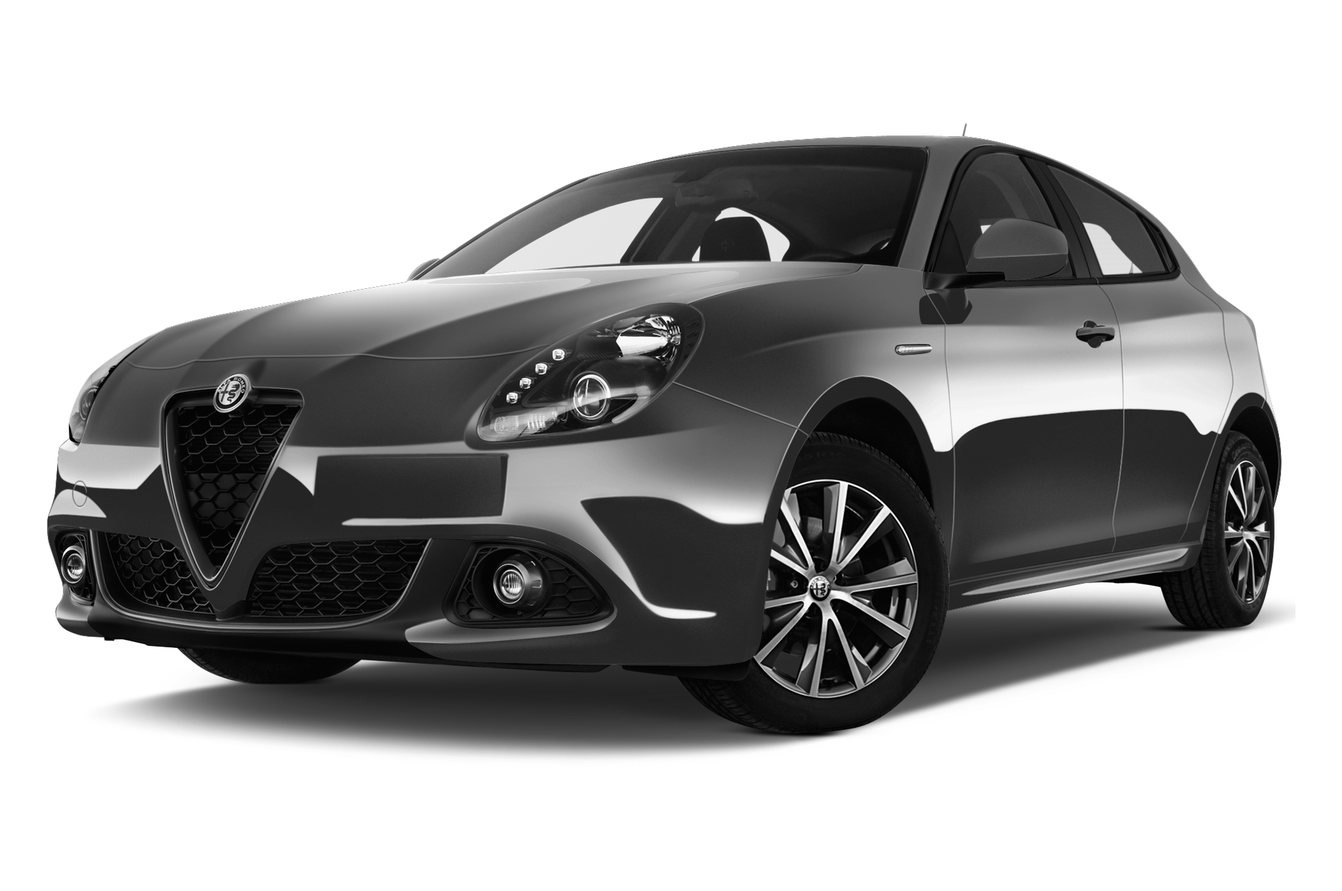
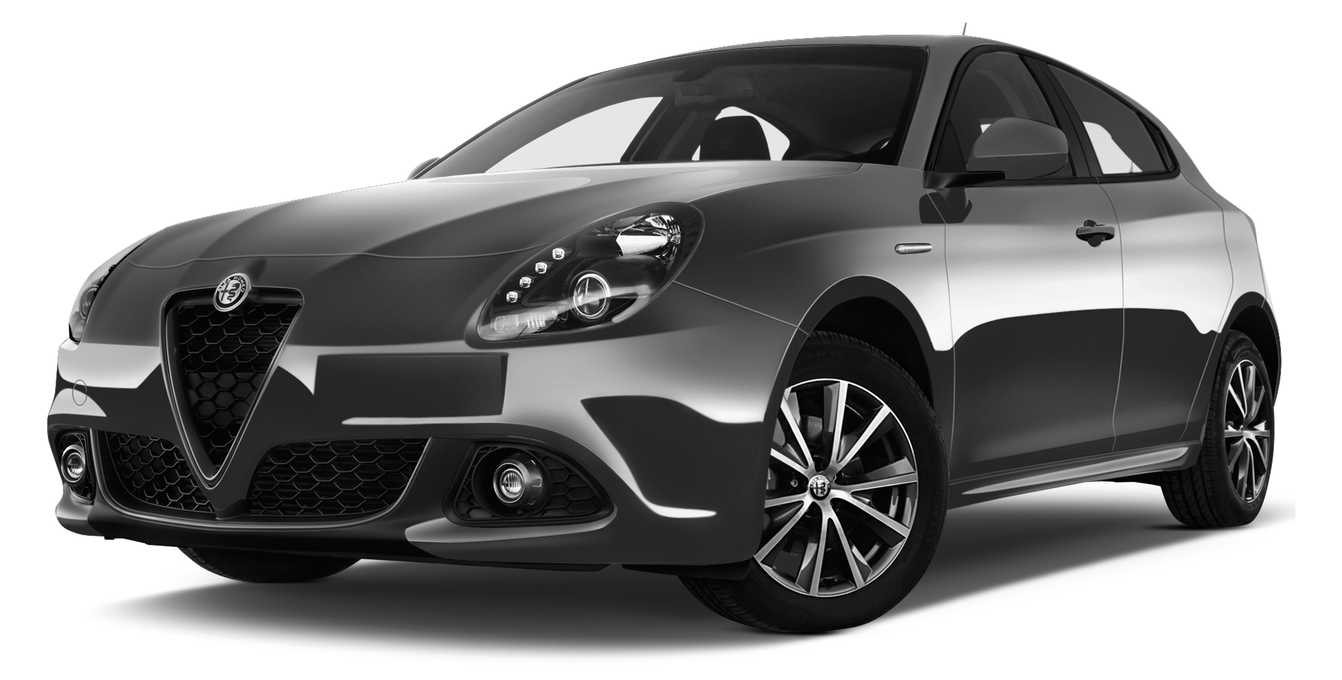
new illus

diff --git a/actes/acte_02.tex b/actes/acte_02.tex
@@ -414,9 +414,7 @@ Sauf que, comme tous les enfoirés de son espèce, drapés ou non des oripeaux d
 Ce même jour, en fin d’après-midi, on avait fait une descente dans la cité des Alisiers pour remuer un peu la merde. On s’était fait repérer dès notre arrivée, méchamment caillasser, et on avait préféré battre en retraite plutôt que de risquer le mauvais coup. En désespoir de cause, on s’était rabattu sur un pédophile dont le dossier traînait au-dessus de la pile depuis quelques semaines. On avait gentiment sonné à sa porte, comme des gens civilisés, et ce gros tas de merde était venu ouvrir en slip et débardeur crasseux, des morceaux de chips plein la barbe. Il était en train de s’empiffrer devant la télé. On lui a dit qu’on savait des choses sur lui, il a dit qu’il ne voyait pas de quoi on voulait parler, qu’il avait effectivement eu quelques petits problèmes par le passé, mais que ça lui avait servi de leçon et qu’il avait définitivement mis un terme à sa carrière d’exhibitionniste à la sortie des écoles. L’ennui, c’était qu’on avait des informations qui semblaient prouver le contraire. Son ordi était sous surveillance depuis un bout de temps, et ses connexions à répétition sur des sites pédocriminels les plus dégueulasses du web ne plaidaient pas en sa faveur. Titus Beaugendre, mon homme de confiance, compagnon d’infortune, toujours partant pour la grande aventure, carrossé comme un ours et monté comme un taureau (on aurait dit qu’il pissait avec un tuyau d’arrosage), s’était fait tripoter dans les vestiaires de son club de foot quand il avait entre huit et dix ans. Il avait arrêté le foot mais l’expérience lui avait laissé un très mauvais souvenir, de sorte que la vision d’un pédophile, même de très loin, de dos et dans le brouillard, lui causait des migraines insupportables. Quand l’autre a commencé à faire le malin, il n’a pu s’empêcher de lui coller quelques crochets dans le gras du bide pour lui faire fermer sa gueule. Le représentant de l’ordre passe la majeure partie de son temps sous tension, il faut bien qu’il décompresse quand l’occasion se présente. On a saisi le matos et embarqué le pédophile, histoire de le cuisiner un peu à tête reposée.
 
 \illusloflabel{}%
-Le soir même, après une journée de boulot bien remplie comme vous avez pu le constater, je rentrais tranquillement chez moi, avec la satisfaction du devoir accompli, quand je me suis rendu compte que quelque chose clochait dans le périmètre. Dans le rétro de ma Kangoo, \iconographiewrapfig{l}{0.5\textwidth}{\bwimage[width=\linewidth]{acte_02/scene_3/_0010_alfa-romeo-giulietta.png}}{Alfa Romeo Giulietta}plus exactement. Sauf à être devenu complètement parano, ce qui n’était pas impossible vu les cadences infernales auxquelles nous étions soumis, une voiture me suivait. Une Alfa Romeo Giulietta\nf{Berline compacte produite par Alfa Romeo de 2010 à 2020, héritière du nom de la \textit{Giulietta} des années 1950. Connue pour son comportement sportif, elle fut aussi disponible en version Quadrifoglio Verde.\source{fr.wikipedia.org/wiki/Alfa\_Romeo\_Giulietta\_(2010)}} noire aux vitres teintées, le genre de caisse pilotée neuf fois sur dix par une tête à claques qui se prend pour Fangio\nf{Juan Manuel Fangio (1911--1995), pilote automobile argentin, quintuple champion du monde de Formule~1 (1951, 1954--1957). Son record ne fut battu qu’en 2003. Il est considéré comme l’un des plus grands pilotes de l’histoire de la compétition automobile.\source{fr.wikipedia.org/wiki/Juan\_Manuel\_Fangio}} et finit encastré dans le premier platane qui passe à sa portée. Nous, les vrais flics de terrain, disposons d’un sixième sens qui nous permet de savoir instantanément si quelqu’un nous suit ou pas. Cela dit, conscience professionnelle oblige, j’ai fait trois fois le tour du quartier pour m’en assurer. Il me suivait, ou alors quelqu’un le suivait lui aussi et il habitait le même quartier que moi. Mais la plupart des flics, vous le savez comme moi, ont toutes les peines du monde à croire aux coïncidences. Je ne faisais pas exception à la règle.
-
-Je me suis garé près de chez moi, suis descendu tranquillement de ma voiture, comme si de rien n’était, et me suis dirigé vers l’entrée. Comme je m’y attendais, l’Alfa m’a dépassé au ralenti pour aller se garer à quelques mètres de là.
+Le soir même, après une journée de boulot bien remplie comme vous avez pu le constater, je rentrais tranquillement chez moi, avec la satisfaction du devoir accompli, quand je me suis rendu compte que quelque chose clochait dans le périmètre. Dans le rétro de ma Kangoo, \iconographiewrapfig{l}{0.58\textwidth}{\bwimage[width=\linewidth]{acte_02/scene_3/_0010_alfa-romeo-giulietta.png}}{Alfa Romeo Giulietta}plus exactement. Sauf à être devenu complètement parano, ce qui n’était pas impossible vu les cadences infernales auxquelles nous étions soumis, une voiture me suivait. Une Alfa Romeo Giulietta\nf{Berline compacte produite par Alfa Romeo de 2010 à 2020, héritière du nom de la \textit{Giulietta} des années 1950. Connue pour son comportement sportif, elle fut aussi disponible en version Quadrifoglio Verde.\source{fr.wikipedia.org/wiki/Alfa\_Romeo\_Giulietta\_(2010)}} noire aux vitres teintées, le genre de caisse pilotée neuf fois sur dix par une tête à claques qui se prend pour Fangio\nf{Juan Manuel Fangio (1911--1995), pilote automobile argentin, quintuple champion du monde de Formule~1 (1951, 1954--1957). Son record ne fut battu qu’en 2003. Il est considéré comme l’un des plus grands pilotes de l’histoire de la compétition automobile.\source{fr.wikipedia.org/wiki/Juan\_Manuel\_Fangio}} et finit encastré dans le premier platane qui passe à sa portée. Nous, les vrais flics de terrain, disposons d’un sixième sens qui nous permet de savoir instantanément si quelqu’un nous suit ou pas. Cela dit, conscience professionnelle oblige, j’ai fait trois fois le tour du quartier pour m’en assurer. Il me suivait, ou alors quelqu’un le suivait lui aussi et il habitait le même quartier que moi. Mais la plupart des flics, vous le savez comme moi, ont toutes les peines du monde à croire aux coïncidences. Je ne faisais pas exception à la règle. Je me suis garé près de chez moi, suis descendu tranquillement de ma voiture, comme si de rien n’était, et me suis dirigé vers l’entrée. Comme je m’y attendais, l’Alfa m’a dépassé au ralenti pour aller se garer à quelques mètres de là.
 
 Je résidais au sixième étage d’un immeuble qui, s’il ne datait pas exactement d’hier, n’en présentait pas moins toutes les garanties nécessaires en termes de confort et d’habitabilité. Il y avait l’eau courante, le gaz, l’électricité et du double vitrage aux fenêtres. Il y avait même un ascenseur dans lequel on pouvait loger deux ou trois personnes (pas trop grosses) sans risquer la chute libre. Comme il tombait régulièrement en rade, produisant des bruits atroces qui donnaient tout sauf envie de monter dedans, je pouvais garder la forme en effectuant des allers et retours dans les escaliers. Ce n’était pas le cas de ma voisine d’en face, une vieille bique sèche comme un coup de trique avec des yeux de fouine, une langue de pute et des touffes de cheveux irrégulièrement plantées sur le crâne, qui se retrouvait en grande difficulté à chaque fois que ce foutu ascenseur déclarait forfait. Ses enfants venaient la voir une fois tous les trente-six du mois et ses petits enfants ne rappliquaient que pour lui taxer du fric (qu’elle ne manquait pas de leur donner, sachant pertinemment qu’ils ne viendraient plus sans ça). Une fois, je l’avais croisée à mi-chemin dans l’escalier, à l’agonie avec sa baguette sous le bras et ses poireaux qui dépassaient du cabas. Au lieu de l’achever, ce qui aurait été un acte de charité chrétienne de haute valeur morale, j’avais commis l’erreur de lui proposer mon aide. Depuis, elle surveillait mes allées et venues et me mettait à contribution dès qu’elle arrivait à me mettre le grappin dessus. Quand je n’étais pas de corvée de courses, ou autre, elle m’attrapait par la manche et me tirait chez elle pour avaler un verre de porto. Le porto, c’est sucré, pas trop alcoolisé, les vieux adorent ça. Elle avait aussi trois chats à peu près aussi vieux qu’elle qui chiaient et pissaient partout. L’un d’eux, un rouquin vaguement tigré avec des oreilles bouffées aux mites, s’échappait dès qu’il pouvait pour venir chier sur le paillasson devant ma porte. D’ailleurs, en règle générale, il s’échappait dès qu’il pouvait pour faire régner la terreur dans le quartier. Cette sale bête s’appelait Korax. Un nom de dragon, de créature maléfique, je me demandais bien où la vieille était allée chercher ça. Je m’en plaignais régulièrement à l’intéressée qui m’offrait un verre de porto pour se faire pardonner, une piquette proche du vinaigre qui me filait des aigreurs d’estomac pour le restant de la journée. Je pense qu’on aurait pu décimer une ville entière avec son porto. Peut-être qu’elle le fabriquait elle-même avec du sang de cochon et de l’acide sulfurique, mais il était impossible d’imaginer qu’elle telle horreur soit en vente libre dans le pays des droits de l’homme, l’art de vivre et la gastronomie. Je commençais à me demander si la vieille, sous ses allures de grand-mère inoffensive, n’était pas en fait une redoutable sorcière ayant survécu aux bûchers de l’Inquisition. Korax me détestait. Il y avait des tas d’endroits où il aurait pu chier et pisser sans faire chier le monde, mais il tenait absolument à le faire devant ma porte. Je voyais qu’il me détestait quand il me regardait fixement avec ses grands yeux verts, avec un air de défi, en remuant nerveusement la queue et poussant des grognements rauques comme s’il allait se jeter sur moi. Il avait au moins trois siècles et je me disais qu’il allait bien finir par crever. Mais non, son aversion pour moi le maintenait solidement accroché à la vie, lui donnait la force de continuer à se battre pour me pourrir la mienne. Quels que soient ses sentiments à mon égard, je dois admettre que Korax n’était pas un chat comme les autres. Par exemple, croyez-le ou non, il avait appris à prendre l’ascenseur. Il savait sauter sur le bouton pour l’appeler, et une fois à l’intérieur, sauter à nouveau sur le bouton pour le faire aller et venir. Il lui arrivait aussi, de plus en plus souvent (il commençait à se faire vieux), de se faufiler entre les jambes des gens pour profiter du voyage. Quand je dis les jambes des gens, je pense aux miennes en particulier, entre lesquelles il adorait se faufiler, pas tellement parce que mes jambes sont des jambes entre lesquelles il est plus agréable de se faufiler que d’autres, mais parce qu’il savait que la manœuvre m’exaspérait et que sa présence m’horripilait. À tel point que des fois, quand je le voyais roder dans les parages, prêt à se jeter dans mes pattes pour profiter de l’ascenseur en faisant semblant de ronronner, je préférais me farcir les six étages à pinces. Mais au lieu de lâcher l’affaire, il se les farcissait lui aussi, en se frottant dans mes jambes pour essayer de me faire tomber. \label{rat:9}Contrairement au chien, animal grégaire au tempérament servile, le chat n’aime pas les gens, qu’il tient pour responsables d’avoir fait de lui une carpette à sa mémère, tout juste bon à faire ses pattes sur un coussin en ronronnant bêtement. Dans animal domestique, il y a animal et domestique. Le chien est plus domestique qu’animal, tendance larbin dévoué corps et âme à son maître, alors que le chat est un animal qui non seulement déteste les gens, mais se déteste lui-même pour s’être laissé avilir par une espèce qu’il estime, sans doute à juste titre, très inférieure à la sienne. Jamais il ne nous pardonnera ce que nous avons fait de lui, et jamais il ne se pardonnera de nous avoir laissé faire. Reste que dans son esprit, c’est lui qui a domestiqué l’homme et pas le contraire. À ce titre, il a tous les droits et droit à toutes les déférences. Caractériel et sournois de nature, veule et manipulateur, autoritaire, il faut être d’une naïveté sans bornes pour lui accorder la moindre confiance. C’est d’ailleurs, n’en doutons pas, la principale raison de la fascination qu’il exerce sur les gens, plus ou moins conscients d’avoir entre les mains une grenade dégoupillée qui peut leur péter à la gueule à tout instant. Quand un chat vous regarde de travers en plissant les yeux, cela signifie grosso modo : quel dommage que je ne fasse pas trente ou quarante kilos de plus, car j’aurais le plus grand plaisir à t’arracher la tête et te pisser dans le cou.
 
@@ -464,7 +462,7 @@ Une fois en bas, j’ai dit à Dardariel : Passe devant, je te suis. Et rappelle
 Korax est resté dans l’ascenseur, puis il a sauté sur le 6 pour remonter gratter à la porte de la mère Ouvrard, laquelle devait être en train de somnoler comme une grosse merde en robe de chambre et pantoufles devant Qui veut gagner des morpions ou Les fions de l’amour.
 
 \illusloflabel{}%
-Le cerveau de Dardariel tournait à plein régime pour imaginer une issue favorable à la situation. Après tout il n’avait rien fait de mal, à part se retrouver dans l’ascenseur d’un immeuble qui se trouvait, par le plus grand des hasards, être celui dans lequel résidait Djeferson Beauvais, inspecteur spécialisé dans la traque des criminels les plus endurcis, tueurs en série, violeurs d’enfants et autres saloperies du même genre. Certes il était, au moment des faits, porteur d’un Glock 17 et se trouvait précisément en train de l’équiper d’un silencieux quand Beauvais lui était tombé dessus, mais il était détenteur d’un permis de port d’arme, et, à sa connaissance, aucune loi n’interdisait spécifiquement de visser un silencieux à un pistolet dans un ascenseur, même s’il reconnaissait volontiers l’existence d’endroits sans doute mieux adaptés à ce type d’activité. Il était, d’autre part, titulaire d’une licence séminariale (il était l’auteur d’une thèse sur les mouvements \iconographieinlineblock[b]{\bwimage[width=0.95\textwidth]{acte_02/scene_3/_0060_renouveau-charismatique.jpg}}{Renouveau charismatique}%
+Le cerveau de Dardariel tournait à plein régime pour imaginer une issue favorable à la situation. Après tout il n’avait rien fait de mal, à part se retrouver dans l’ascenseur d’un immeuble qui se trouvait, par le plus grand des hasards, être celui dans lequel résidait Djeferson Beauvais, inspecteur spécialisé dans la traque des criminels les plus endurcis, tueurs en série, violeurs d’enfants et autres saloperies du même genre. Certes il était, au moment des faits, porteur d’un Glock 17 et se trouvait précisément en train de l’équiper d’un silencieux quand Beauvais lui était tombé dessus, mais il était détenteur d’un permis de port d’arme, et, à sa connaissance, aucune loi n’interdisait spécifiquement de visser un silencieux à un pistolet dans un ascenseur, même s’il reconnaissait volontiers l’existence d’endroits sans doute mieux adaptés à ce type d’activité. Il était, d’autre part, titulaire d’une licence séminariale (il était l’auteur d’une thèse sur les mouvements \iconographieinlineblock[b]{\bwimage[width=\textwidth]{acte_02/scene_3/_0060_renouveau-charismatique.jpg}}{Renouveau charismatique}%
 pentecôtistes américains\nf{Le pentecôtisme, né aux États-Unis au début du XX\up{e}~siècle, est un courant du protestantisme évangélique qui met l’accent sur l’expérience directe du Saint-Esprit, la glossolalie (parler en langues) et la guérison divine. Il compte aujourd’hui plusieurs centaines de millions de fidèles dans le monde.\source{fr.wikipedia.org/wiki/Pentecôtisme}} et les dérives sectaires du Renouveau charismatique\nf{Le Renouveau charismatique, apparu dans les années 1960 au sein des Églises catholique et protestantes, est un mouvement spirituel insistant sur les dons de l’Esprit Saint (guérison, prophétie, glossolalie). Ses formes les plus radicales ont parfois donné lieu à des dérives sectaires.\source{fr.wikipedia.org/wiki/Renouveau\_charismatique}}), inspiré par et d’un diplôme de prêtre garantissant la parfaite moralité de sa personne. Ajoutez à cela qu’il ne travaillait rien moins que pour le compte de monseigneur Mathéo Riqueti, évêque du Sanctuaire de Ddarr (lieu saint de l’Église catholique et romaine) et ami personnel du \foreignlanguage{italian}{cardinale di tutti li cardinali} Prospero Cangelosi, chef de chœur au Vatican et bras droit de Sa Sainteté le Pape, et vous conviendrez qu’il est difficile, sinon inconvenant, de suspecter un tel homme de quelque mauvaise intention que ce soit, funeste à plus forte raison. Il exigerait la relaxe immédiate et les excuses publiques du sieur Djeferson Beauvais, voire sa radiation définitive des services d’élite de la police nationale. Sa rétrogradation au niveau de simple agent de la circulation, condamné à faire le pied-de-grue à la sortie des écoles, ne serait pas pour lui déplaire.
 
 \begin{dialogue}
@@ -579,16 +577,19 @@ Eh bien, même si je n’étais pas censé répondre à cette question, le fait 
 Et alors ?
 
 \illusloflabel{\textit{Super Mario Bros.}}%
-Alors rien. Simplement, certaines affaires se traitent dans la pénombre plutôt que la lumière aveuglante des projecteurs. Il se trouvait que Titus et moi-même, sans être des agents secrets à part entière, devions parfois remplir des missions officiellement inexistantes en dehors de nos heures de travail. Rien, pas même le Chianti ou les somptueux spaghetti bolognaise \iconographiewrapfig{l}{0.425\textwidth}{\bwimage[width=\linewidth]{acte_02/scene_3/_0280_super-mario-bros.jpg}}{Super Mario Bros. \\[-5pt] \textup{1993}}dont elle venait de nous régaler, ne serait de nature à nous délier la langue. Même sous la torture, par exemple si on nous avait agrafé les paupières et obligés à regarder en boucle \textit{Super Mario Bros.}\nf{\textit{Super Mario Bros.} (1993), film de science-fiction réalisé par Rocky Morton et Annabel Jankel, adaptation du jeu vidéo de Nintendo. Avec Bob Hoskins et Dennis Hopper, il fut un échec commercial et critique retentissant, régulièrement cité parmi les pires adaptations de jeux vidéo. \source{fr.wikipedia.org/wiki/Super\_Mario\_Bros.\_(film)}} de Rocky Morton et Annabel Jankel, jamais, je dis bien jamais, même si après vingt-quatre heures non-stop de \textit{Super Mario Bros.} il avait fallu s’enquiller tous les pires films d’exploitation du cinéma pré-code hollywoodien\nf{Films américains produits entre l’avènement du parlant (\textit{circa} 1929) et l’application stricte du Code Hays en 1934, caractérisés par leur liberté de ton en matière de sexualité, de violence et de cynisme moral, qui disparut ensuite pendant trente ans.\source{fr.wikipedia.org/wiki/Cinéma\_pré-Code}}, comme par exemple l’histoire tragique de cette secrétaire devenue pute dans \textit{Safe in Hell}\nf{\textit{Safe in Hell} (1931), film pré-code de William Wellman~; il suit une jeune prostituée réfugiée sur une île des Caraïbes après avoir cru tuer son souteneur. Film sombre et sans concessions, apprécié par les amateurs du cinéma américain d’avant la censure Hays. \source{fr.wikipedia.org/wiki/La\_Fille\_de\_l'enfer}} de William Wellman\nf{William Augustus Wellman (1896--1975), réalisateur américain surnommé «~Wild Bill~», auteur de plus de quatre-vingts films~; on lui doit notamment \textit{Les Ailes} (1927, premier film à recevoir l’Oscar du meilleur film) et \textit{A Star Is Born} (1937). \source{fr.wikipedia.org/wiki/William\_A.\_Wellman}}, jamais nous n’aurions livré la moindre information concernant une affaire en cours.
+Alors rien. Simplement, certaines affaires se traitent dans la pénombre plutôt que la lumière aveuglante des projecteurs. Il se trouvait que Titus et moi-même, sans être des agents secrets à part entière, devions parfois remplir des missions officiellement inexistantes en dehors de nos heures de \iconographiewrapfig{l}{0.425\textwidth}{\bwimage[width=\linewidth]{acte_02/scene_3/_0280_super-mario-bros.jpg}}{Super Mario Bros. \\[-5pt] \textup{1993}}travail. Rien, pas même le Chianti ou les somptueux spaghetti bolognaise dont elle venait de nous régaler, ne serait de nature à nous délier la langue. Même sous la torture, par exemple si on nous avait agrafé les paupières et obligés à regarder en boucle \textit{Super Mario Bros.}\nf{\textit{Super Mario Bros.} (1993), film de science-fiction réalisé par Rocky Morton et Annabel Jankel, adaptation du jeu vidéo de Nintendo. Avec Bob Hoskins et Dennis Hopper, il fut un échec commercial et critique retentissant, régulièrement cité parmi les pires adaptations de jeux vidéo. \source{fr.wikipedia.org/wiki/Super\_Mario\_Bros.\_(film)}} de Rocky Morton et Annabel Jankel, jamais, je dis bien jamais, même si après vingt-quatre heures non-stop de \textit{Super Mario Bros.} il avait fallu s’enquiller tous les pires films d’exploitation du cinéma pré-code hollywoodien\nf{Films américains produits entre l’avènement du parlant (\textit{circa} 1929) et l’application stricte du Code Hays en 1934, caractérisés par leur liberté de ton en matière de sexualité, de violence et de cynisme moral, qui disparut ensuite pendant trente ans.\source{fr.wikipedia.org/wiki/Cinéma\_pré-Code}}, comme par exemple l’histoire tragique de cette secrétaire devenue pute dans \textit{Safe in Hell}\nf{\textit{Safe in Hell} (1931), film pré-code de William Wellman~; il suit une jeune prostituée réfugiée sur une île des Caraïbes après avoir cru tuer son souteneur. Film sombre et sans concessions, apprécié par les amateurs du cinéma américain d’avant la censure Hays. \source{fr.wikipedia.org/wiki/La\_Fille\_de\_l'enfer}} de William Wellman\nf{William Augustus Wellman (1896--1975), réalisateur américain surnommé «~Wild Bill~», auteur de plus de quatre-vingts films~; on lui doit notamment \textit{Les Ailes} (1927, premier film à recevoir l’Oscar du meilleur film) et \textit{A Star Is Born} (1937). \source{fr.wikipedia.org/wiki/William\_A.\_Wellman}}, jamais nous n’aurions livré la moindre information concernant une affaire en cours.
 
+\illusloflabel{}%
+\iconographieinlineblock[b]{\bwimage[width=\textwidth]{acte_02/scene_3/_0300_safe-in-hell.jpg}}{Dorothy Mackaill \textup{1903--1990}, dans \textup{Safe in Hell}}%
+%
 Et non, Bérénice, je suis désolé mais le monde n’est pas qu’un parc d’attraction peuplé de mascottes inoffensives et surdimensionnées qui font le bonheur des petits et des grands, le tout sur fond de musique de fête foraine affligeante et odeurs poisseuses de barbe à papa. Derrière les masques souriants se dissimulent des grimaces de super-vilains qui n’attendent qu’une occasion de faire régner la terreur sur terre. Et il se trouve, par le plus grand des hasards, que Titus et moi sommes précisément chargés, sinon de mettre un terme définitif à leurs agissements, au moins de modérer leurs ardeurs.
 
 Et moi, quand je modère, je modère sans modération.
 
-Vaincue par nos arguments fallacieux, ou plutôt profondément exaspérée par le tissu de conneries que nous n’avions cessé de lui tricoter depuis des heures, Bérénice avait fini par aller se coucher, laissant le champ libre à nos élucubrations judiciaires.
-
-\illusloflabel{}%
-\iconographieinlineblock[]{\bwimage[width=\textwidth]{acte_02/scene_3/_0320_hiram-solomon.jpg}}{Hiram \& Solomon Fellow Craft Gran Toro} 
+Vaincue par nos arguments fallacieux, ou plutôt profondément exaspérée par le tissu de conneries que nous n’avions cessé de lui tricoter depuis des heures, Bérénice avait fini par aller se coucher, laissant le champ libre à nos élucubrations judiciaires. \\{
+  \illusloflabel{Hiram \& Solomon Fellow Craft Gran Toro}
+  \iconographieinlineblock[]{\bwimage[width=\textwidth]{acte_02/scene_3/_0320_hiram-solomon.jpg}}{}
+}%
 
 Une heure plus tard environ, la seconde fias\-que de Chianti arrivant à son terme, j’ai sorti un Hiram \& Solomon Fellow Craft Gran Toro\nf{Hiram \& Solomon : marque nicaraguayenne de cigares dont la gamme \textit{Fellow Craft} fait référence au deuxième grade maçonnique dans le Rite d’York (l’Apprenti, le Compagnon et le Maître). Un Gran Toro est un format long et de grand diamètre.\source{fr.wikipedia.org/wiki/Franc-maçonnerie}} de la poche de ma veste, le partenaire idéal pour se remettre les idées en place en fin de soirée. Il n’était bien entendu pas question de fumer à l’intérieur, la fumée de cigare (et l’odeur de tabac froid qu’elle laisse derrière elle) étant considérée par la majeure partie des gens (hommes et femmes confondus, même si ces dernières, habituées à ne respirer que des odeurs flatteuses de cosmétiques, sont nettement plus intransigeantes sur le sujet) comme une des pires agressions olfactives qui soient. Comme je ne tiens pas à m’énerver inutilement, je ne ferai pas de commentaire sur la question. Titus, qui était lui-même tenu de griller ses clopes à l’extérieur pour ne pas pourrir l’atmosphère en plus de nuire à la santé de sa femme et ses enfants, a proposé qu’on aille se jeter quelques verres de Monte Negro\nf{Grogue local du Cap-Vert : eau-de-vie de canne à sucre distillée artisanalement dans les îles, notamment à Santo Antão et São Nicolau. À ne pas confondre avec l’Amaro Montenegro, liqueur italienne d’herbes.\source{fr.wikipedia.org/wiki/Grogue\_(eau-de-vie)}} (un grogue cap-verdien qu’on venait de lui faire découvrir et sur lequel il ne tarissait pas d’éloges) dans le jardin, histoire de fignoler les derniers préparatifs de notre expédition.
 
@@ -686,9 +687,9 @@ Je me suis demandé si les comportements irrationnels dont il nous arrivait de f
 \iconographietex{figures/dinosaures_fig.tex}
 En gros, tout ce qui vit à la surface passe à la trappe, à commencer par nos bons gros vieux dinosaures qui s’ébrouaient tranquillement à la surface du globe. Voilà comment, alors que ça n’a aucun rapport direct avec l’histoire qui nous occupe, il m’arrive de songer à ce qui serait advenu si l’astéroïde avait raté sa cible et l’extinction K-T\nf{L’extinction Crétacé-Paléogène (anciennement dite K-T, de l’allemand \textit{Kreide-Tertiär}), survenue il y a environ 66 millions d’années, est l’une des cinq grandes extinctions de masse de l’histoire de la Terre. Elle aurait été causée par l’impact de l’astéroïde de Chicxulub (diamètre estimé : 10--15~km) au Yucatán, combiné à une intense activité volcanique. Environ 75~\% des espèces disparurent, dont tous les dinosaures non aviens.\source{fr.wikipedia.org/wiki/Extinction\_Crétacé-Paléogène}} n’avait jamais eu lieu. Peut-être que les dinosaures seraient toujours parmi nous et qu’on pourrait aujourd’hui se balader avec un Tricératops\nf{Le \textit{Triceratops}, dinosaure cératopsien herbivore du Crétacé supérieur (Amérique du Nord, il y a environ 68--66 millions d’années), se distingue par ses trois cornes et son large bouclier crânien. L’un des derniers grands dinosaures non aviens avant l’extinction K-Pg.\source{fr.wikipedia.org/wiki/Triceratops}} ou un T.~rex\nf{Le \textit{Tyrannosaurus rex} (T.~rex), dinosaure théropode carnivore du Crétacé supérieur (Amérique du Nord, il y a environ 68--66 millions d’années), l’un des plus grands prédateurs terrestres ayant jamais existé. Son crâne pouvait atteindre 1,5~m de long et sa morsure est la plus puissante connue parmi les animaux terrestres.\source{fr.wikipedia.org/wiki/Tyrannosaurus}} miniature en laisse en guise d’animal de compagnie. On se demande aussi pourquoi Asteriornis maastrichtensis\nf{\textit{Asteriornis maastrichtensis}, oiseau fossile du Crétacé supérieur (il y a environ 66,7 millions d’années), découvert en Belgique et décrit en 2020. Considéré comme l’un des plus anciens représentants connus du groupe des oiseaux modernes (Neornithes), il présente des affinités avec les galliformes et les ansériformes.\source{fr.wikipedia.org/wiki/Asteriornis}}, sorte de poulet préhistorique qui hantait les basses-cours du Crétacé, ou encore Vegavis iaai\nf{\textit{Vegavis iaai}, oiseau fossile du Crétacé supérieur (il y a environ 66--68 millions d’années), découvert sur l’île Vega en Antarctique. L’un des plus anciens ansériformes connus, prouvant que certains groupes d’oiseaux modernes existaient avant l’extinction K-Pg.\source{fr.wikipedia.org/wiki/Vegavis}}, sympathique canard dont les restes vieux de soixante-dix millions d’années ont été retrouvés au nord de la terre de Graham\nf{La terre de Graham, péninsule septentrionale de l’Antarctique, s’étend vers l’Amérique du Sud. Elle est administrée par le Royaume-Uni (territoire britannique d’outre-mer de Géorgie du Sud et des îles Sandwich du Sud) et revendiquée par l’Argentine et le Chili.\source{fr.wikipedia.org/wiki/Terre\_de\_Graham}}, dans l’Antarctique, ont survécu alors qu’ils n’avaient à priori aucun endroit où se cacher, contrairement à celles et ceux qui pouvaient se réfugier dans les profondeurs de la terre ou la mer. Ce séisme a-t-il eu une influence directe sur l’Évolution au point que sans lui, par exemple, l’espèce humaine n’aurait jamais vu le jour ? Aux dernières nouvelles, après Morotopithecus bishopi\nf{\textit{Morotopithecus bishopi}, hominoïde fossile découvert en Ouganda, daté d’environ 20 millions d’années. Considéré comme l’un des plus anciens grands singes connus, il présente une colonne vertébrale adaptée à la station verticale, suggérant une locomotion arboricole évoluée.\source{fr.wikipedia.org/wiki/Morotopithecus}} en Ouganda et Nyanzapithecus alesi\nf{\textit{Nyanzapithecus alesi}, hominoïde fossile découvert au Kenya en 2016, daté d’environ 13 millions d’années. Son crâne remarquablement bien conservé en fait l’un des plus anciens ancêtres connus de la lignée des grands singes et de l’Homme.\source{fr.wikipedia.org/wiki/Nyanzapithecus}} au Kenya, Archicebus achilles\nf{\textit{Archicebus achilles}, primate fossile découvert en Chine, daté d’environ 55 millions d’années. Avec ses 20 à 30~g, il est le plus ancien et le plus petit primate connu, constituant un chaînon essentiel dans la compréhension de l’origine des primates.\source{fr.wikipedia.org/wiki/Archicebus\_achilles}}, un singe chinois de cinquante-cinq millions d’années à peine plus gros qu’une souris, est ce qui se fait de plus vieux en matière de primate. Peut-être que toute cette joyeuse bande de primates n’aurait jamais vu le jour sans l’astéroïde de Chicxulub. 
 
-\label{rat:15}%
+%%% \label{rat:15}%
 \illusloflabel{}%
-\iconographiewrapfig{r}{0.5\textwidth}{\bwimage[width=\linewidth]{acte_02/scene_3/_0490_ovis-shantungensis.jpg}}{Ovis shantungensis}
+\iconographiewrapfig{r}{0.48\textwidth}{\bwimage[width=\linewidth]{acte_02/scene_3/_0490_ovis-shantungensis.jpg}}{Ovis shantungensis}
 Ce qui pose la question suivante : l’Évolution a-t-elle un plan de carrière, prévoyant à court ou moyen terme l’émergence de telle ou telle espèce ? Est-ce que, quoi qu’il arrive, nous devons nécessairement passer par ici pour en arriver là ? Fascinant, non ? Oui, mais aussi complètement chiant, raison pour laquelle je vous propose de retourner sans plus tarder à nos moutons, lesquels, je le rappelle en passant, descendent tous du Mouflon oriental, lui-même descendant du Mouflon chinois Ovis shantungensis\nf{\textit{Ovis shantungensis}, mouflon fossile du Pléistocène originaire de Chine du Nord, considéré comme l’ancêtre probable des moutons domestiques (\textit{Ovis aries}) et de plusieurs espèces de mouflons actuels.\source{species.wikimedia.org/wiki/Ovis\_shantungensis}}, ce qui ne nous rajeunit pas.
 
 J’ai dit, avec une légère pointe d’agacement dans la voix : C’est bon, on peut y aller, maintenant ?

diff --git a/_ratiocinations.tex b/_ratiocinations.tex
@@ -39,7 +39,7 @@
 %%% \ratioentry{12}{sa corpulence de gorille des montagne s’accompagnait d’une résistance hors du commun à l’alcool}{Réflexion sur l'inégalité sociale face à l'alcool}
 \ratioentry{13}{Suite à un certain nombre de malversations}{Diatribe contre la corruption de l'État}
 \ratioentry{14}{Je me suis demandé si les comportements irrationnels}{Très longue digression sur l'extinction des dinosaures par astéroïde}
-\ratioentry{15}{l’Évolution a-t-elle un plan de carrière}{Questionnement existentiel brutalement interrompu}
+%%% \ratioentry{15}{l’Évolution a-t-elle un plan de carrière}{Questionnement existentiel brutalement interrompu}
 \ratioentry{16}{on ne peut que se féliciter du fait que les femmes revendiquent haut et fort le droit d’être considérées comme des êtres humains à part entière}{De la misère sexuelle comme fléau mondial, et de l'intelligence artificielle comme solution enfin à la hauteur}
 \ratioentry{17}{Les chiens ont une méthode très efficace pour s’orienter}{Comparaison du Petit Poucet avec le sens de l'orientation du chien}
 \ratioentry{18}{Il y a des gens qui vont très souvent au cinéma}{L'art a perdu sa fonction suprême de révélateur de la vérité, selon Hegel}
@@ -52,7 +52,6 @@
 \ratioentry{25}{le véhicule sympathique et débonnaire du bon père de famille}{Satire de l'archétype du «~bon père de famille~»}
 \ratioentry{26}{en train d’assister à l’enregistrement en live de la Tétralogie de Wagner}{Digression sur Furtwängler, les musiciens sous le nazisme et Potsdam}
 \ratioentry{27}{Il régnait dans l’habitacle une douce ambiance de fin du monde}{Digression sur Lucia di Lammermoor, Donizetti et Callas}
-\ratioentry{275}{Il régnait dans l’habitacle une douce ambiance de fin du monde}{Digression sur Lucia di Lammermoor, Donizetti et Callas}
 \ratioentry{28}{Bref, comme on dit chez nous, ça craignait méchamment du boudin}{Boudin, Pénates et mainates}
 \ratioentry{29}{Oui, l’être humain fait parfois preuve de comportements irrationnels}{Réflexion philosophique sur le coup de foudre}
 \ratioentry{30}{Pour expliciter le concept, je vais reprendre l’exemple du brontosaure}{Très longue digression sur l'instinct du brontosaure}

diff --git a/actes/acte_01.tex b/actes/acte_01.tex
@@ -109,6 +109,6 @@ Cela dit, je suis un perfectionniste. Certains salopent tout et repartent sans s
 
 Celui ou celle qui allait tomber sur cette grosse andouille truffée de plombs le lendemain en promenant son chien allait faire une drôle de tête.
 
-\illusloflabel{Albert Dubout, \textit{Palavas-les-Flots}}%
-\iconographieinlineblock[b]{\bwimage[width=\textwidth]{acte_01/scene_1/_0020_palavas-les-flots.jpg}}{Albert Dubout}%
-
+%%% \illusloflabel{Albert Dubout, \textit{Palavas-les-Flots}}%
+%%% \iconographieinlineblock[b]{\bwimage[width=\textwidth]{acte_01/scene_1/_0020_palavas-les-flots.jpg}}{Albert Dubout}%
+%%% 

diff --git a/tasks.py b/tasks.py
@@ -366,11 +366,13 @@ def stats(c, target=None):
 @_timed
 def all_but_diffs(c):
     """Build everything except diffs: main, notes, pers, postfaces, extrait, total."""
+    couverture(c)
     notes(c)
     pers(c)
     postfaces(c)
     extrait(c)
     total(c)
+    stats(c)
     _ls_outputs()
 
 
@@ -380,9 +382,7 @@ def all(c):
     """Build everything: all_but_diffs + diffs + clean."""
     c.run("python3 -u diff_work/make_diff.py")
     shutil.copy(ROOT / "diff_work" / f"{BASE}_diff.pdf", BUILD / f"{BASE}_diff.pdf")
-    couverture(c)
     _ls_outputs()
-    stats(c)
     clean(c)
 
 

diff --git a/extrait.tex b/extrait.tex
@@ -16,7 +16,9 @@
 % ═══ MAIN TEXT ════════════════════════════════════════════════════════════════
 \pagestyle{gallimard}
 
-\input{tete_de_veau_ravigote_content.tex}
+\acte{
+  \input{actes/acte_02.tex}
+}
 % ← extrait content
 
 %% ═══ TABLE DES MATIÈRES ══════════════════════════════════════════════════════

diff --git a/stats.py b/stats.py
@@ -15,7 +15,7 @@ ACTES_DIR = ROOT / "actes"
 BUILD     = ROOT / "build"
 OUT_FILE  = ROOT / "stats.md"
 
-ILLUS_TARGET = 419  # target: 1 illustration every N words (overridable via --target)
+ILLUS_TARGET = 418  # target: 1 illustration every N words (overridable via --target)
 
 TOC_MAIN   = BUILD / "tete_de_veau_ravigote.toc"
 TOC_TOTALE = BUILD / "tete_de_veau_ravigote_LA_TOTALE.toc"

diff --git a/stats.md b/stats.md
@@ -3,30 +3,30 @@
 Mots = texte original uniquement (hors contenu des notes `\nf{}`).
 % notes et % illustrations = rapport au nombre de mots.
 
-| Acte.Scène | Début | p. | pp. | Mots | % livre | % dial. | Notes | % mots | Illustrations | % mots |
-|----------:|:------|---:|----:|-----:|--------:|--------:|------:|-------:|--------------:|-------:|
-| I.1 | Une décharge d’un milliard de volts a… |   7 |  18 |   3 942 |   2.11% |   4.52% |    22 |  0.56% |            16 |  0.41% |
-| II.2 | Ça a officiellement commencé le jour où… |  25 |  32 |   8 527 |   4.56% |  20.23% |    32 |  0.38% |            14 |  0.16% |
-| II.3 | Ce même jour, en fin d’après-midi, on… |  57 |  36 |   8 684 |   4.65% |   5.65% |    53 |  0.61% |            27 |  0.31% |
-| III.4 | Quelques jours plus tard, les journaux ont… |  93 |  44 |  11 096 |   5.94% |  28.70% |    78 |  0.70% |            33 |  0.30% |
-| III.5 | Dans le fond de la pièce, il… | 137 |  36 |   8 467 |   4.53% |  43.11% |    32 |  0.38% |            12 |  0.14% |
-| IV.6 | Il y a ce qu’on appelle la… | 173 |  44 |  11 313 |   6.05% |  28.52% |    45 |  0.40% |            27 |  0.24% |
-| IV.7 | Depuis que mon ami Grégoire Lussier, ancien… | 217 |  34 |   8 365 |   4.48% |  30.70% |    43 |  0.51% |            19 |  0.23% |
-| V.8 | Croyez-le ou non, mais Aymeric Jégou et… | 251 |  36 |   8 904 |   4.76% |  56.56% |    44 |  0.49% |            27 |  0.30% |
-| V.9 | Ce soir-là, alors même que les combats… | 287 |  44 |  10 812 |   5.78% |  31.34% |    56 |  0.52% |            23 |  0.21% |
-| VI.10 | J’ai tout juste eu le temps de… | 331 |  42 |  10 088 |   5.40% |  35.32% |    92 |  0.91% |            31 |  0.31% |
-| VI.11 | On en était là de nos aventures… | 373 |  44 |  10 705 |   5.73% |  19.41% |    86 |  0.80% |            42 |  0.39% |
-| VI.12 | La voiture s’est approchée, au ralenti, et… | 417 |  40 |   9 059 |   4.85% |  91.32% |    24 |  0.26% |            13 |  0.14% |
-| VII.13 | Et on y est allé, figurez-vous, car… | 457 |  16 |   2 852 |   1.53% |  56.21% |    13 |  0.46% |             9 |  0.32% |
-| VIII.14 | Trois quarts d’heure plus tard, après avoir… | 473 |  36 |   9 794 |   5.24% |   0.00% |    56 |  0.57% |            33 |  0.34% |
-| VIII.15 | Les chaussures à semelle de cuir sont… | 509 |  28 |   6 822 |   3.65% |  52.49% |    55 |  0.81% |            14 |  0.21% |
-| IX.16 | Cette nuit-là, j’ai fait des rêves étranges… | 537 | 124 |  33 443 |  17.89% |  20.84% |   248 |  0.74% |            60 |  0.18% |
-| IX.17 | Une porte d’ascenseur venait de s’ouvrir, non… | 661 |  36 |  10 456 |   5.59% |   3.04% |    68 |  0.65% |            26 |  0.25% |
-| IX.18 | Comme beaucoup d’urgentistes souffrant de handicap visuel… | 697 |  26 |   7 373 |   3.94% |  48.11% |    10 |  0.14% |             — |      — |
-| IX.19 | Il est toujours extrêmement douloureux de mettre… | 723 | 232 |   6 214 |   3.32% |  25.43% |    23 |  0.37% |            20 |  0.32% |
-| **Total** | |  |  | **186 916** | **100%** | **29.40%** | **1080** | **0.58%** | **446** | **0.24%** |
+| Acte.Scène | Début | Mots | % livre | % dial. | Notes | % mots | Illustrations | % mots |
+|----------:|:------|-----:|--------:|--------:|------:|-------:|--------------:|-------:|
+| I.1 | Une décharge d’un milliard de volts a… |   3 943 |   2.11% |   4.51% |    22 |  0.56% |            16 |  0.41% |
+| II.2 | Ça a officiellement commencé le jour où… |   8 527 |   4.56% |  20.23% |    32 |  0.38% |            14 |  0.16% |
+| II.3 | Ce même jour, en fin d’après-midi, on… |   8 686 |   4.65% |   5.65% |    53 |  0.61% |            28 |  0.32% |
+| III.4 | Quelques jours plus tard, les journaux ont… |  11 096 |   5.94% |  28.70% |    78 |  0.70% |            33 |  0.30% |
+| III.5 | Dans le fond de la pièce, il… |   8 467 |   4.53% |  43.11% |    32 |  0.38% |            12 |  0.14% |
+| IV.6 | Il y a ce qu’on appelle la… |  11 313 |   6.05% |  28.52% |    45 |  0.40% |            27 |  0.24% |
+| IV.7 | Depuis que mon ami Grégoire Lussier, ancien… |   8 365 |   4.48% |  30.70% |    43 |  0.51% |            19 |  0.23% |
+| V.8 | Croyez-le ou non, mais Aymeric Jégou et… |   8 904 |   4.76% |  56.56% |    44 |  0.49% |            27 |  0.30% |
+| V.9 | Ce soir-là, alors même que les combats… |  10 812 |   5.78% |  31.34% |    56 |  0.52% |            23 |  0.21% |
+| VI.10 | J’ai tout juste eu le temps de… |  10 088 |   5.40% |  35.32% |    92 |  0.91% |            31 |  0.31% |
+| VI.11 | On en était là de nos aventures… |  10 705 |   5.73% |  19.41% |    86 |  0.80% |            42 |  0.39% |
+| VI.12 | La voiture s’est approchée, au ralenti, et… |   9 059 |   4.85% |  91.32% |    24 |  0.26% |            13 |  0.14% |
+| VII.13 | Et on y est allé, figurez-vous, car… |   2 852 |   1.53% |  56.21% |    13 |  0.46% |             9 |  0.32% |
+| VIII.14 | Trois quarts d’heure plus tard, après avoir… |   9 794 |   5.24% |   0.00% |    56 |  0.57% |            33 |  0.34% |
+| VIII.15 | Les chaussures à semelle de cuir sont… |   6 822 |   3.65% |  52.49% |    55 |  0.81% |            14 |  0.21% |
+| IX.16 | Cette nuit-là, j’ai fait des rêves étranges… |  33 443 |  17.89% |  20.84% |   248 |  0.74% |            60 |  0.18% |
+| IX.17 | Une porte d’ascenseur venait de s’ouvrir, non… |  10 456 |   5.59% |   3.04% |    68 |  0.65% |            26 |  0.25% |
+| IX.18 | Comme beaucoup d’urgentistes souffrant de handicap visuel… |   7 373 |   3.94% |  48.11% |    10 |  0.14% |             — |      — |
+| IX.19 | Il est toujours extrêmement douloureux de mettre… |   6 214 |   3.32% |  25.43% |    23 |  0.37% |            20 |  0.32% |
+| **Total** | | **186 919** | **100%** | **29.40%** | **1080** | **0.58%** | **447** | **0.24%** |
 
-![Illustrations par scène](stats_illus_chart.png?v=eeac545a)
+![Illustrations par scène](stats_illus_chart.png?v=26be0187)
 
 # Statistiques par acte (avant découpage)
 
@@ -35,20 +35,20 @@ Mots = texte original uniquement (hors contenu des notes `\nf{}`).
 
 | Acte | p. | pp. | Mots | % livre | Notes | % mots | Illustrations | % mots |
 |-----:|---:|----:|-----:|--------:|------:|-------:|--------------:|-------:|
-| I    |   3 |  14 |   3 942 |   2.11% |    22 |  0.56% |            16 |  0.41% |
-| II   |  17 |  56 |  17 211 |   9.21% |    85 |  0.49% |            41 |  0.24% |
+| I    |   3 |  14 |   3 943 |   2.11% |    22 |  0.56% |            16 |  0.41% |
+| II   |  17 |  56 |  17 213 |   9.21% |    85 |  0.49% |            42 |  0.24% |
 | III  |  73 |  68 |  19 563 |  10.47% |   110 |  0.56% |            45 |  0.23% |
 | IV   | 141 |  66 |  19 678 |  10.53% |    88 |  0.45% |            46 |  0.23% |
 | V    | 207 |  66 |  19 716 |  10.55% |   100 |  0.51% |            50 |  0.25% |
 | VI   | 273 | 106 |  29 852 |  15.97% |   202 |  0.68% |            86 |  0.29% |
 | VII  | 379 |  12 |   2 852 |   1.53% |    13 |  0.46% |             9 |  0.32% |
 | VIII | 391 |  54 |  16 616 |   8.89% |   111 |  0.67% |            47 |  0.28% |
-| IX   | 445 | 184 |  57 486 |  30.75% |   349 |  0.61% |           106 |  0.18% |
-| **Total** |  |  | **186 916** | **100%** | **1080** | **0.58%** | **446** | **0.24%** |
+| IX   | 445 |   — |  57 486 |  30.75% |   349 |  0.61% |           106 |  0.18% |
+| **Total** |  |  | **186 919** | **100%** | **1080** | **0.58%** | **447** | **0.24%** |
 
 ## Estimation illustrations restantes
 
-Cible : **1 illustration tous les 419 mots** (186 916 mots → **446** illustrations).  
-Actuellement **446** — il en manque **0** — **100.0 %** réalisé.
+Cible : **1 illustration tous les 418 mots** (186 919 mots → **447** illustrations).  
+Actuellement **447** — il en manque **0** — **100.0 %** réalisé.
 
 Sous-illustrées (< 0.7× la cible) : IX.18 (0/17.6)

diff --git a/actes/word_count.md b/actes/word_count.md
@@ -7,17 +7,17 @@
 | Acte 3 | acte_03.tex | 20 799 | 10,5 % | ☑ | 77 | 0,37 % |
 | Acte 4 | acte_04.tex | 20 454 | 10,3 % | ☑ | 66 | 0,32 % |
 | Acte 5 | acte_05.tex | 20 814 | 10,5 % | ☑ | 66 | 0,32 % |
-| Acte 6/1 | acte_06_1.tex | 22 360 | 11,3 % | ☑ | 104 * | 0,32 % * |
+| Acte 6/1 | acte_06_1.tex | 22 360 | 11,3 % | ☑ | 105 * | 0,32 % * |
 | Acte 6/2 | acte_06_2.tex | 10 520 | 5,3 % | ☑ |  |  |
 | Acte 7 | acte_07.tex | 2 948 | 1,5 % | ☑ | 11 | 0,37 % |
 | Acte 8 | acte_08.tex | 17 228 | 8,7 % | ☑ | 55 | 0,32 % |
-| Acte 9/1 | acte_09_1.tex | 11 253 | 5,7 % | ☑ | 143 * | 0,24 % * |
+| Acte 9/1 | acte_09_1.tex | 11 253 | 5,7 % | ☑ | 144 * | 0,24 % * |
 | Acte 9/2 | acte_09_2.tex | 21 851 | 11,1 % | ☑ |  |  |
 | Acte 9/2b | acte_09_2b.tex | 1 610 | 0,8 % | ☑ |  |  |
 | Acte 9/3 | acte_09_3.tex | 15 134 | 7,7 % | ☑ |  |  |
 | Acte 9/3b | acte_09_3b.tex | 4 724 | 2,4 % | ☑ |  |  |
 | Acte 9/4 | acte_09_4.tex | 6 067 | 3,1 % | ☑ |  |  |
-| **Total** | | **197 598** | **100 %** | | **609** | **0,31 %** |
+| **Total** | | **197 598** | **100 %** | | **611** | **0,31 %** |
 
 > Décompte hors commandes LaTeX et commentaires.
 > **Diffs** = nombre de blocs supprimés/remplacés (via `latexdiff`), hors bruit typographique (apostrophes, guillemets, tirets, etc.).
